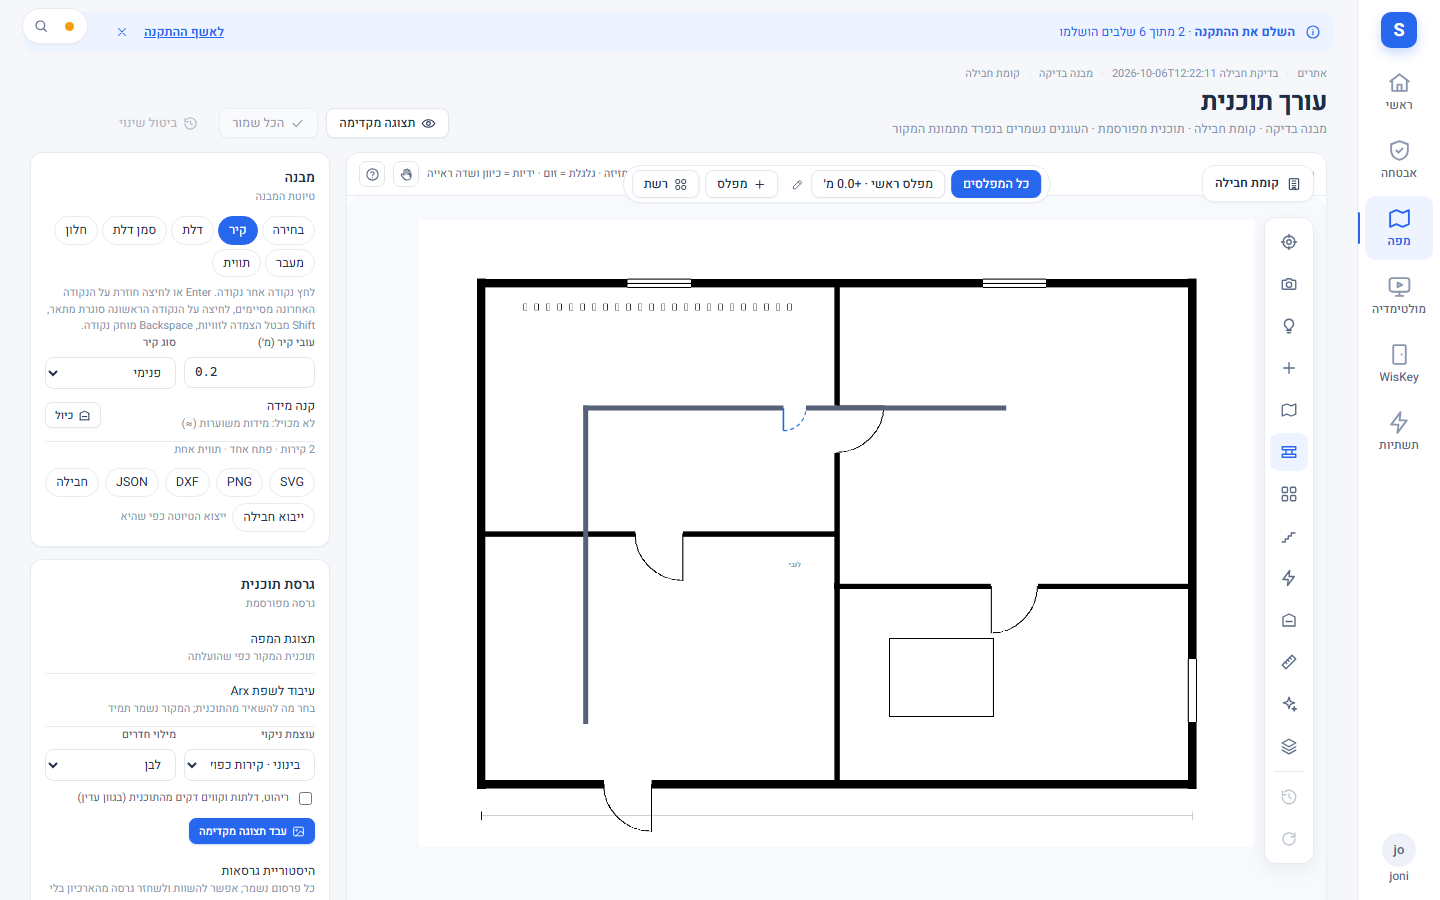
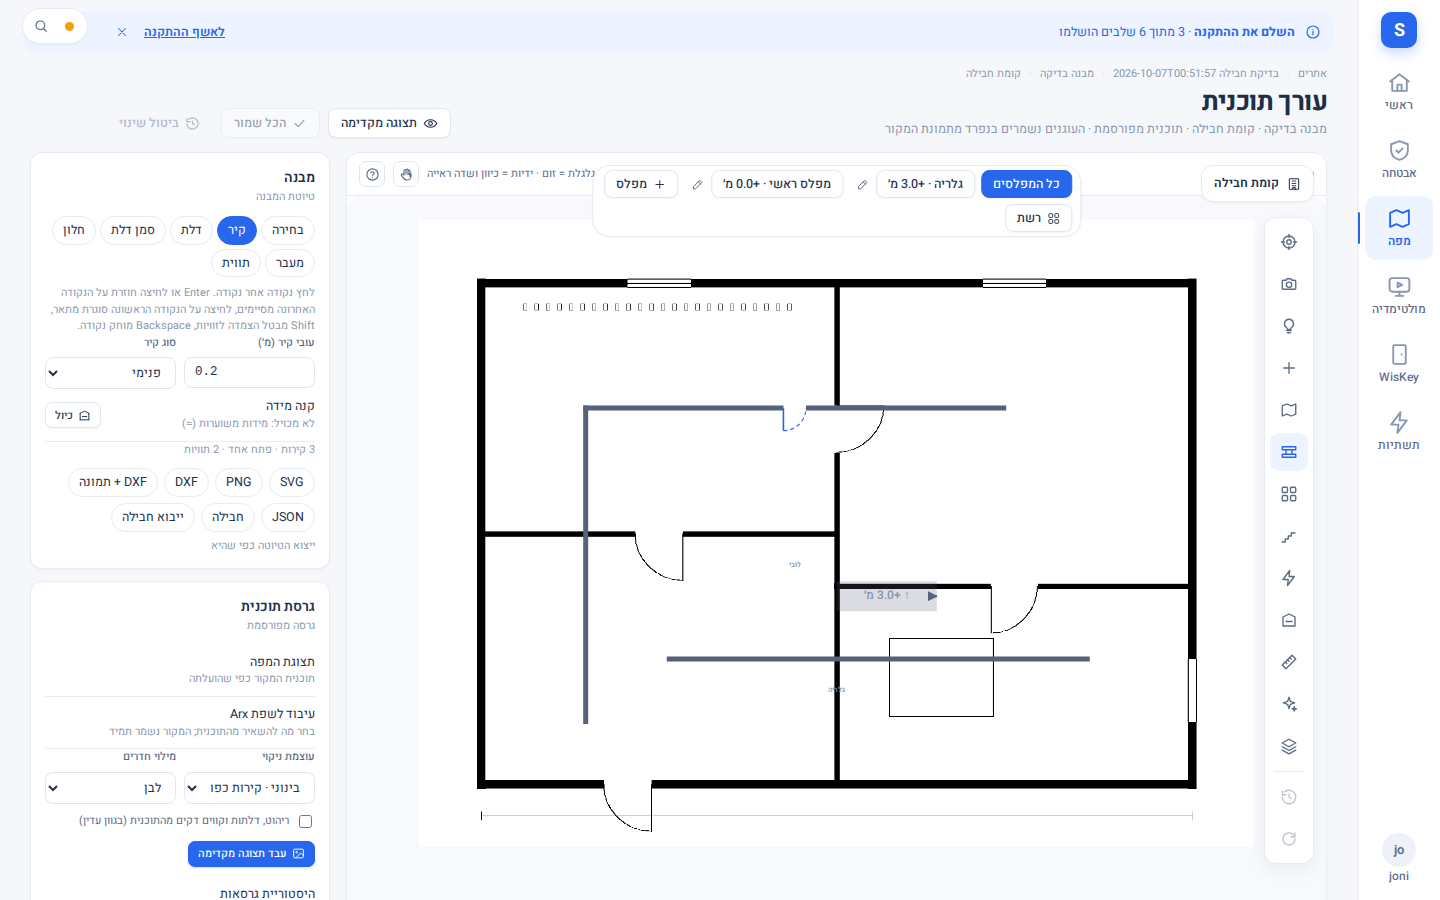
docs(pln2): levels in the DXF, the plan picture, multi-level round trip; editor evidence from the runner fixture job

diff --git a/docs/changes/ST5-PLAN-PACKAGE-DXF.md b/docs/changes/ST5-PLAN-PACKAGE-DXF.md
@@ -65,7 +65,7 @@ below are the agent's and are open to the owner's review.
 
 ## Known limits
 - Right-to-left ordering of Hebrew in commercial CAD programs was not verified (only ezdxf and our own DXF reader).
-- DXF does not carry the plan picture; levels are not split into separate layers (use `?level=`).
+- ~~DXF does not carry the plan picture; levels are not split into separate layers~~ - addressed by PLN2 (below).
 - Importing a package does not create floors, plan versions or assets; it targets an existing editable version.
 - The phone editor does not show the export row, and no plan canvas at all: at phone width the owner's mobile option
   `hide_structure` (default ON, decision 2026-09-30, `shell/phone.ts`, `routeGuardKind`) replaces `#/explore/floors/<id>/edit` with
@@ -82,3 +82,60 @@ Revert the branch commit: new routes and files only; `geometry_store._prepare` g
 - Backend: `tests/test_plan_dxf_export.py` (7), `tests/test_plan_package.py` (19).
 - Playwright: `frontend/tests/evidence-plan-package.spec.ts` — fixture part (harness `tests/harness/plan-package-harness.ts`,
   vite dev server) and live part (`SW_LIVE=1`). Screenshots in `docs/design/evidence/plan-package/`.
+
+---
+
+# PLN2 — levels in the DXF, the plan picture, multi-level round trip
+
+Branch `pilot/PLN2-plan-dxf` (from `main` 383a03d9 = 2.3.0; not merged, not released). No migration, no version bump.
+
+## DXF layers per level
+- A plan with **one** level: the fixed layer names, byte-for-byte the same drawing as before.
+- A plan with **more than one** level: each level gets its own layer family, `<fixed name>-<suffix>` (`SW_WALLS-L0`,
+  `SW_OPENINGS-L1`, `SW_ROOMS-…`, `SW_OBJECTS-…`, `SW_CONNECTORS-…`, `SW_LABELS-…`). The suffix is the level id upper-cased,
+  `[A-Z0-9_]` only, at most 24 characters; an empty or clashing result becomes `LV<n>` (n = place in elevation order). The rule
+  depends on the level count only, never on `?level=`, so names are stable across exports. CAD: switch a level with a layer
+  filter / wildcard `*-L1`.
+- Openings follow their wall; rooms of an unknown level go with the default level; a connector between two levels of this
+  floor is drawn on both levels' connector layers, a connector to another floor on its own level's layer only; devices stay on
+  `SW_DEVICES` (anchors are per floor). On level layers the level id is the third XDATA value. Layer descriptions and the header
+  variables `SW_LEVEL_<suffix>` = `name | elevation m` carry the level names (Hebrew as UTF-8 text, cleaned like all text).
+- Units, the y mirror and the Hebrew handling are unchanged.
+
+## The plan picture
+- ezdxf writes `IMAGE` + `IMAGEDEF` robustly (audit clean, read back), but a DXF **cannot embed raster data**: the picture
+  is always an external file. So the bare `export.dxf` still carries no picture.
+- The signed package can carry `assets/plan.dxf` (request body `{"draft": …, "dxf": true}`; UI button "DXF + תמונה" /
+  "DXF + picture" in the studio export row). Its `IMAGE` (layer `SW_BACKGROUND`, drawn first) names `background.<ext>` by bare
+  file name - the picture already shipped in `assets/`, i.e. the same folder - with its real pixel size, stretched over the plan.
+  Unzip the package and open `assets/plan.dxf`.
+- Default stays without the DXF: an importer of 2.2.x/2.3.0 refuses unknown file names, so the plain "Package" button keeps
+  producing packages older installations can import.
+- Import: `assets/plan.dxf` is listed and hashed against the signed manifest, never parsed, bounded at 24 MiB on the declared
+  size (422 `package_file_too_large`, audited); on export a DXF over the bound is left out (`manifest.dxf.skipped = too_large`).
+  All 2.2.1 limits and trust checks are unchanged. The package DXF draws only the anchors the exporting person may see (M2).
+- **Limit:** opening the drawing with the picture was verified with ezdxf only, not in AutoCAD / BricsCAD / QCAD; a CAD
+  program that does not search the drawing's folder for a bare image name needs the image path re-pointed once.
+
+## Round trip with levels and connectors
+`tests/test_plan_package_pln2.py`: three levels, door / window / labels / objects per level, an L-shaped stair model, an
+elevator, a tribune-derived connector and stairs linked to another floor. Replace import restores the document hash, the
+geometry hash and a per-level hash; merge restores the package items and keeps a local one (merge appends re-added items, so
+the collection order - and the document hash - can differ from the export; the per-level comparison is by id); an import into
+another version of the floor keeps the geometry hash. Import never writes the other floor's twin.
+
+## Editor end to end
+The live part of `evidence-plan-package.spec.ts` builds a two-level plan with stairs, checks the per-level layers in the DXF,
+downloads both packages from the editor, drifts the draft on both levels and imports the DXF package back through the dialog.
+Phone: the structure editor is intentionally not offered (`hide_structure`, decision 2026-09-30); the mobile project asserts
+the desktop-only notice, no canvas and no export / import control (`editor-guard-mobile.png`). Run on the runner:
+`run_smart.py fixture pilot/PLN2-plan-dxf evidence-plan-package --project=desktop` (and `--project=mobile`).
+
+## Observed, not changed (pre-existing)
+A structure object bound to an anchor stores `anchor_ref.resource_id` and sits on the anchor's position in the stored document
+(`plan.json`, the geometry read). The M2 filter removes hidden cameras from the anchors, the report and the DXF devices, but a
+bound body in `plan.json` still names a camera the exporter's scope denies. Needs an owner decision (the stored document is
+what the hashes cover).
+
+## Rollback
+Revert the PLN2 commits; packages made with `dxf: true` then become unimportable (unknown file), plain packages unaffected.
